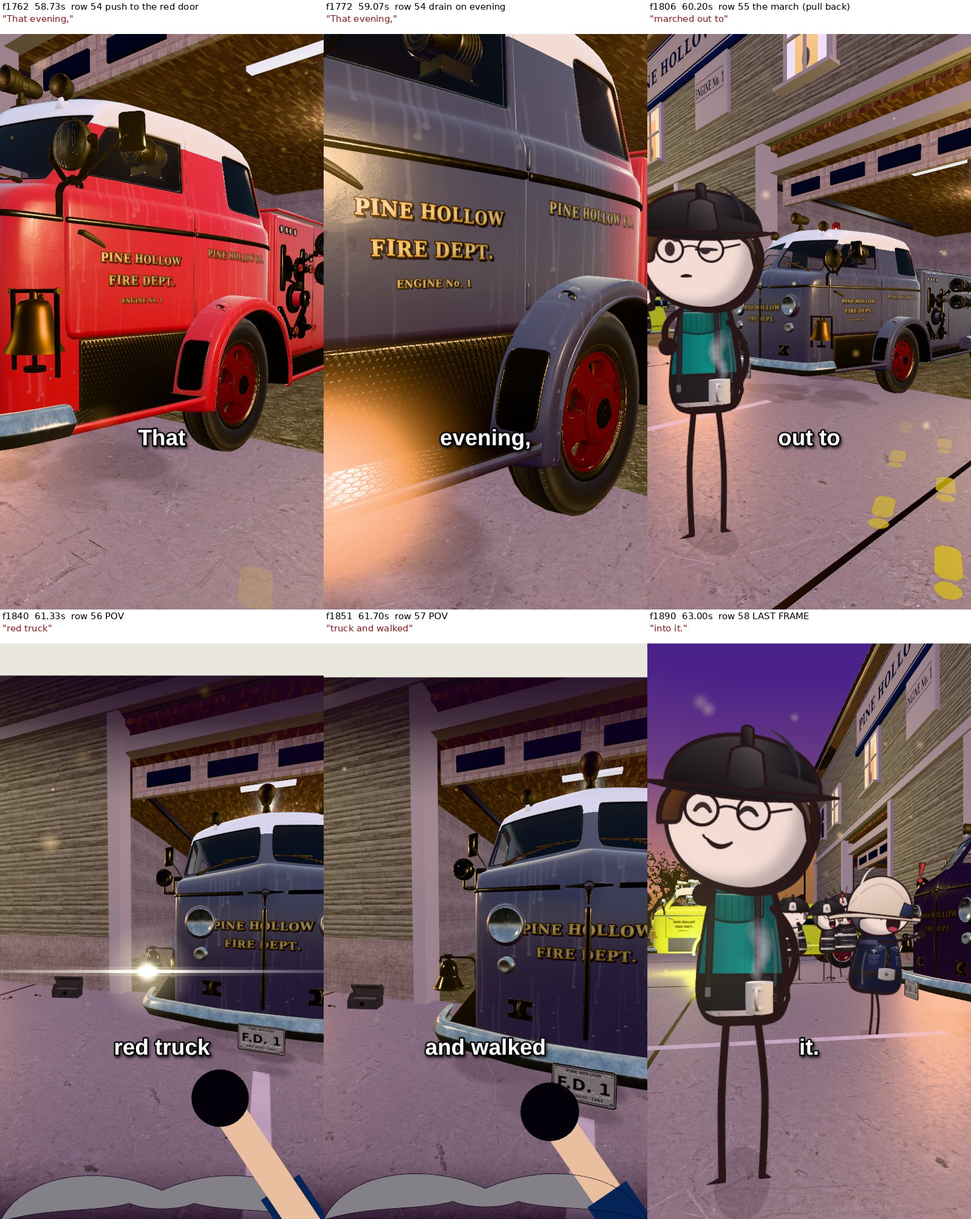
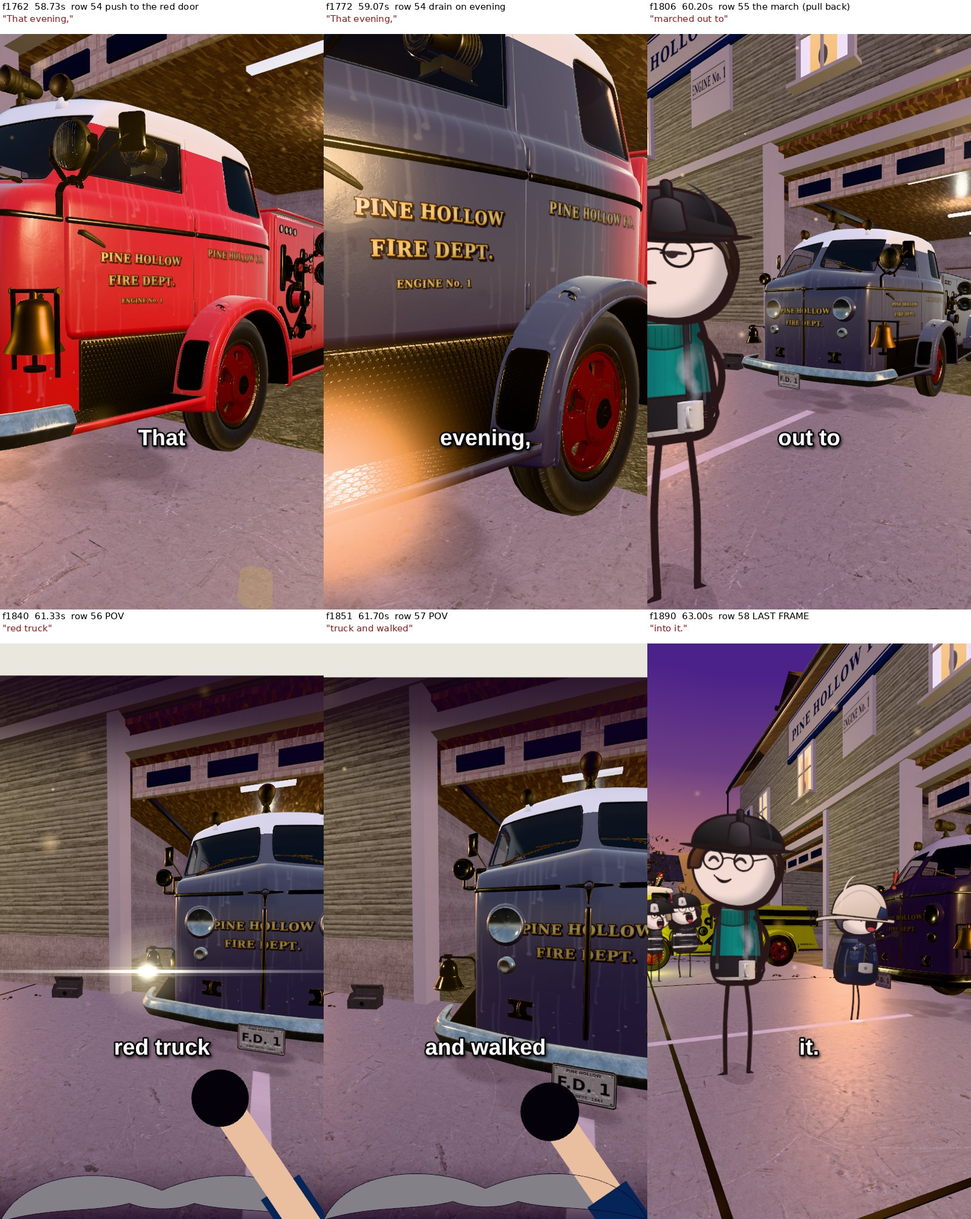
Yellow fire trucks: S8 board v2 (door drain, no hard cut), third S8 camera decision
Claude-Session: https://claude.ai/code/session_01DrjR3Ltb34YxYG9MboPX6s

Changed region(s): [[0.6435, 0.0309, 1.0, 0.5249], [0.6435, 0.5249, 1.0, 1.0]]

diff --git a/episodes/yellow-fire-trucks/s3/make_film.py b/episodes/yellow-fire-trucks/s3/make_film.py
@@ -27,12 +27,12 @@ acts = [
     dict(who='milkmanDriver', at=636, face='k:surprised', note='row 18 "flashing": looks up at the beacons, lost'),
     dict(who='milkmanDriver', at=662, visible=False, note='climbs out (22.3 s): swap to the standing puppet'),
     dict(who='milkman', at=474, visible=False, pos=OUT, view='34', dir=-1, pose=M('mk_out'), face='k:concentrate'),
-    dict(who='milkman', at=662, visible=True, note='row 19: small in front of the huge truck, cap askew'),
+    dict(who='milkman', at=662, visible=True, pose=M('mk_out'), note='row 19: small in front of the huge truck, cap askew'),
     dict(who='milkman', at=690, face='k:nervousSmile', note='row 19 "said": turns to the lens, draws breath'),
     dict(who='milkman', at=718, face='k:nervousSmile', say=[72, 75], note='rows 20-21: "I never saw it!" lip sync 24.02-25.50'),
     dict(who='milkman', at=755, face='k:frozenWide', note='row 21 "it": the double take up the truck'),
     dict(who='sceptic', at=474, visible=False, pos=CAB, view='34', dir=-1, pose=M('sc_cab'), face='k:concentrate'),
-    dict(who='sceptic', at=566, visible=True, note='row 16: at the wheel of the stopped truck (hidden while it races: far, small, inside a dark cab)'),
+    dict(who='sceptic', at=566, visible=True, pose=M('sc_cab'), note='row 16: at the wheel of the stopped truck (hidden while it races: far, small, inside a dark cab)'),
     dict(who='sceptic', at=572, face='k:browUp', note='rows 16-21: one brow, unimpressed'),
 ]
 held3d = [dict(who='milkmanDriver', obj='milk_bottle', module='sets/assets.js', builder='buildMilkBottle', opts={}, grip='pole', face='out', hand='L', anchor='grip', when='always', scale=1.6),
@@ -47,7 +47,7 @@ stations = [
     st(580, [22.7, -3.4, 0.85], [24.7, -5.6, 1.05], 22, 'bumpers', 'M', 'ROW 16 POWER 2 "hit" + "crossings" (lands low on the bump, then RESTS): the two bumpers, the hubcap past the lens, the Milkman frozen behind his windscreen, then the bottle check', hold=0.35),
     st(640, [20.9, -2.4, 1.5], [25.2, -5.1, 2.15], 18, 'milkmanDriver', 'M', 'ROWS 17-18 (the rise lands on a picture of both): the four sirens with sound rings and the beacon row at the top, the Milkman small behind his windscreen at the bottom, looking up', hold=0.4),
     st(694, [21.9, -1.8, 0.55], [24.6, -4.0, 1.2], 24, 'milkman', 'W', 'ROWS 19-20 (low angle, living rest): the Milkman small in front of the huge truck nose, the Sceptic at the wheel behind the windscreen; "I never saw it" arms wide, eyes to the lens', hold=0.7),
-    st(752, [22.2, -2.0, 0.25], [24.3, -4.0, 1.6], 18, 'truck', 'W', 'ROW 21 EXTREME "it" (the tilt lands on the word): low and wide, the truck he never saw fills the frame and goes out of the top', hold=0.5),
+    st(752, [22.5, -2.2, 0.22], [25.0, -4.3, 2.7], 16, 'truck', 'W', 'ROW 21 EXTREME "it" (the tilt lands on the word): low and wide, the truck he never saw fills the frame and goes out of the top', hold=0.5),
 ]
 props = {
     'truck': dict(pos=[TXH, TY, 1.4], kind='the red pumper at dusk'),

diff --git a/episodes/yellow-fire-trucks/s8/make_film.py b/episodes/yellow-fire-trucks/s8/make_film.py
@@ -13,8 +13,8 @@ Z = 0.14                                  # the yard concrete top
 F0, F1 = 1754, 1898
 CH_A, CH_B = [4.2, 14.2, Z], [4.2, 17.95, Z]     # the march runs ON the white yard line (x 4.2, y 7.9 -> 18.55 = the pumper's nose)
 CH_HIT = [4.2, 18.12, Z]                  # flat against the nose (nose at y 18.55; the fat body is ~0.4 m deep)
-HERO = [6.3, 16.75, Z]                   # front left of the wide (east camera looking west), mug at his chest
-OLD, ROOK, SCEP = [-0.6, 18.0, Z], [-0.3, 18.7, Z], [-0.9, 19.3, Z]   # by the lemon truck (bay 1 truck, side at x -3.0)
+HERO = [5.3, 16.4, Z]                   # front left of the wide (east camera looking west), mug at his chest
+OLD, ROOK, SCEP = [-1.2, 15.4, Z], [-0.8, 16.1, Z], [-1.4, 16.8, Z]   # by the lemon truck (bay 1 truck, side at x -3.0)
 M = lambda k: 'm:../../ep_s8/' + k
 W = dict(that=1759, evening=1768, chief=1787, marched=1794, out=1803, his=1815, beautiful=1820, red=1830, truck=1840, and_=1849, walked=1857, straight=1864, into=1876, it=1886)
 
@@ -42,7 +42,7 @@ held3d = [dict(who='hero', obj='mug', module='sets/assets.js', builder='buildMug
 def st(at, pos, aim, lens, subject, framing, purpose, hold=0.0, creep=0.0025, **kw):
     return dict(at=at, pos=pos, aim=aim, lens=lens, subject=subject, framing=framing, purpose=purpose, hold=hold, creep=creep, **kw)
 
-WIDE_POS, WIDE_AIM = [8.2, 16.7, 1.25], [-2.0, 18.6, 1.25]   # east of the line looking west: lemon truck straight behind the Chief, pumper nose at his right
+WIDE_POS, WIDE_AIM = [8.4, 15.6, 1.25], [-1.0, 19.9, 1.25]   # east of the line looking west: lemon truck straight behind the Chief, pumper nose at his right
 stations = [
     st(F0, [7.0, 17.55, 1.32], [5.2, 19.85, 1.14], 28, 'pumper', 'C', 'ROW 54 (PLACE, M09 push, blend on motion from the S7 stillness): the push into the wet red door of the home pumper', hold=0.0, shows=['door']),
     st(1778, [6.2, 18.92, 1.3], [5.2, 19.88, 1.14], 32, 'pumper', 'C', 'ROW 54: lands on the door panel; the drain wipe crosses it on "evening" (1766-1784), gold letters keep their gold', hold=0.45, shows=['door']),

diff --git a/episodes/yellow-fire-trucks/s8/STATE.md b/episodes/yellow-fire-trucks/s8/STATE.md
@@ -1,4 +1,19 @@
-# S8 STATE: THE PAYOFF, BOARD round 1 (S8 stretch builder, 2026-11-21). Frames 1754-1898 (58.45-63.25 s), script line 14, plan rows 54-58, yard, DUSK.
+# S8 STATE: THE PAYOFF, FIX ROUND 1 (same builder, 2026-11-21). Frames 1754-1898, line 14, rows 54-58, yard DUSK. BOARD.jpg = v2 (half size, key_v2/).
+## FIX ROUND: NOT done / wrong
+- Plan window still FAILS: p90 29.4 px/f (<= 22), peak 29.8 (plan_check.txt). One take now, no cut; but door push + pull back + push into the eyes +
+  whip out = 3 fast moves in 145 f; p90 allows ~14 fast frames. The door station is flowed through (push in, drain, pull back, no rest). Needs a lead call:
+  drop one move, or accept the window FAIL for this stretch.
+- f1890 last frame: the chiefDown card faces LEFT, away from his truck, and stands upright: he does not read as flat against it. Check dir/view in the act.
+- f1806 (row 55): the Chief is NOT in the picture (the pull-back via point frames the hero and the pumper). Row 55 fails.
+- POV f1840/f1851: the pumper still reads clearly (bays 0.15 + full drain); not "almost nothing". Fist and arm are flat overlay shapes.
+- frame_checks/check.mjs NOT run (time box). camsafe: 11178 checks, FAIL 0, WARN 1.
+## FIX ROUND: done
+- Door push opens S8, drain wipe nose->tail on "evening" (drainWipe), seen red f1762 -> grey f1772 (gold kept). Workaround removed (assets.js own paint frame).
+- Chief march = moves/shared_walks.mjs use s8_ch_march (added by me, N 80 -> 100; gate twos 0 linear 0 slide 0). Pasted per SHARED_WALKS.md.
+- Hero no longer cut by the edge (f1890, f1806). Last frame: hero left, Chief at the grey pumper nose, lemon truck + firemen back left, pumper visible.
+- he_mug glance cut (no_settle). bays: 0.15 in places.yard.
+
+## ROUND 1 (kept for history): BOARD round 1 (S8 stretch builder, 2026-11-21). Frames 1754-1898 (58.45-63.25 s), script line 14, plan rows 54-58, yard, DUSK.
 ## NOT done / wrong (seen or measured)
 - film_plan.py check --window 1754-1898: 17 FAIL, 8 WARN (plan_check.txt). WINDOW p90 64.2 px/f (FAIL <= 22), peak 68.4. NOT 0 FAIL. The plan's 4 framings
   (close door -> wide -> his eyes -> wide) do not fit 145 f under camera v2 (it wants 89 f + 138 f of travel, room 29 + 30). A framing must go: CAMERA_NOTE.md, 3 options.
@@ -40,7 +55,6 @@
   default grab is a compositor screenshot with a 30 s limit. Fix: --grab canvas. Guard: the line in this file's render command. Proof: f1890 written. FERMÉ
 - 2026-11-21 Problem: motion gate crashed (sig[a] undefined). Cause: the gate looks ~20 f past a strike; N ended at the stretch end. Fix: N = 165 in
   ep_s8.mjs. Guard: comment at N. Proof: motion_gate.txt exit 0. FERMÉ
-- Render command: node ../../../templates/threejs_film/render_gpu.mjs film.json --frames <list> --scale 1 --grab canvas --stills-dir "$PWD/key"
 ## Checks
 - camsafe validate: 11177 checks, PASS 11177, FAIL 0 (camsafe.txt). frame_checks/check.mjs: NOT run (time box over; it renders, one process at a time).
 - motion gate: motion_gate.txt (above). film_plan check: plan_check.txt (above).

diff --git a/episodes/yellow-fire-trucks/STATE.md b/episodes/yellow-fire-trucks/STATE.md
@@ -43,3 +43,4 @@
 - 2026-11-21 lead: the planned whip at the end of S5 into the red headlamp (place change into S6) is accepted.
 - 2026-11-21 lead, S5 climb: the Clerk starts climbing right after "crash" (end of line 8), so he reaches the "UP TO 3x" at the top of board 3 on "three" (no lower 3x, no cut away). S7: Chief start spot moves to [6.8127, 9.8883, 0.12] as the animator asks.
 - 2026-11-21 lead, drivers: the locked heads with helmets do not fit the truck cab. Decision (revised after the CAST_FIX renders, where the helmets read fine in the cab): keep the helmets; ONLY in a shot where the helmet comb clips the roof, that driver drives bareheaded with the helmet on the dash (no truck rescale that would touch every set). The Milkman keeps his cap if it fits the van, else the same rule.
+- 2026-11-21 lead, S8 camera (third pass): drop the door PUSH: S8 begins already ON the wet red door (the S7->S8 join is a blend on motion out of the stillness), the drain plays on that held close, then ONE pull back to the wide, a push into the Chief's eyes for the POV, and the planned capped whip out to the last frame. Last frame: the Chief pressed against the grey fender in side view, face to the truck, helmet knocked askew, a POWER 5 star burst; not standing upright facing away. In the march (row 55) the Chief must be in frame. POV: pumper nearly invisible (drain to the darkest grey + bay lights off behind it).
